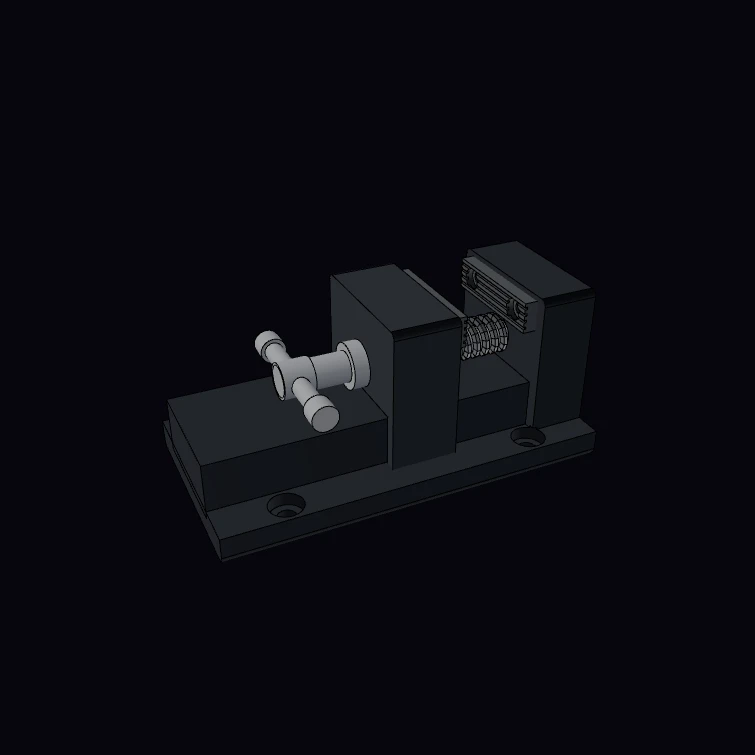
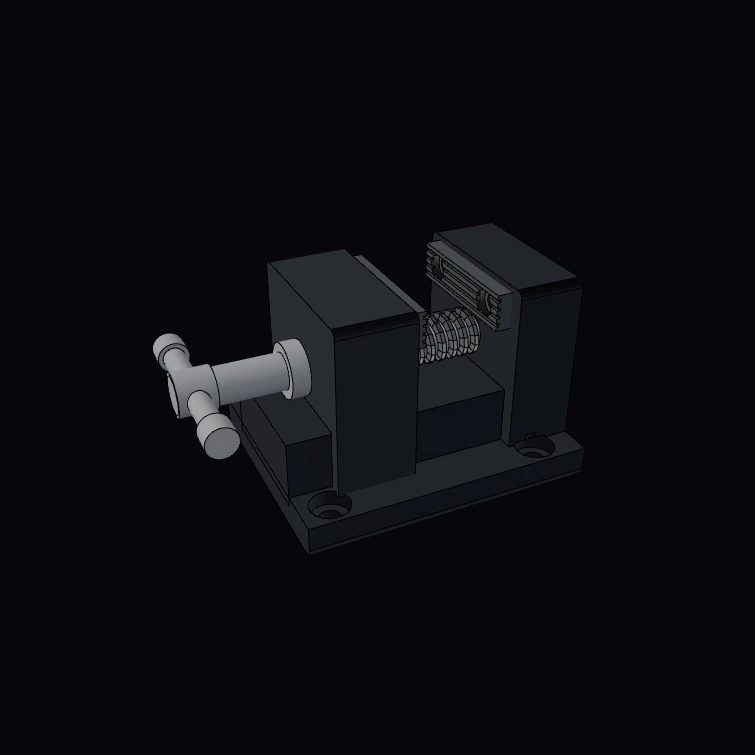
fix(playground): cantilever the vise crank off the bed front edge
The redesign ran the bed the full length under the front-mounted crank,
so the handle knobs would collide with the bed when swung — you couldn't
actually turn it. Shorten the bed to end just past the movable jaw and
push the crank out on a longer journal so the screw nose + T-handle
cantilever past the front edge, swinging in free space like a real
machine vise. Moved the front mounting holes onto the shorter flange.

Changed region(s): [[0.1828, 0.2742, 0.7921, 0.7311], [0.7311, 0.5483, 0.7921, 0.5788], [0.6702, 0.5788, 0.7007, 0.6093]]

diff --git a/apps/playground/src/lib/examples/mechanical.ts b/apps/playground/src/lib/examples/mechanical.ts
@@ -3816,7 +3816,7 @@ import { color } from 'brepjs/playground';
 // travel reserve, so the jaw genuinely opens and closes. Datums: bed bottom at
 // Z=0, screw axis along X.
 const P = {
-  bedLen: 150,
+  bedLen: 96, // ends just past the movable jaw so the crank cantilevers off the front
   flangeW: 78, // wide mounting foot
   flangeH: 11,
   barW: 46, // central slide bar the movable jaw saddles
@@ -3845,11 +3845,11 @@ const P = {
   handleLen: 46,
   handleHubR: 7,
   handleHubLen: 12,
-  handleStandoff: 26, // crank stands clear in front of the movable jaw
+  handleStandoff: 34, // crank stands clear off the front edge so the knobs swing freely
   knobR: 5,
   knobLen: 8,
-  mountX0: 26, // mounting holes in the flange ears (clear of the bar + jaws)
-  mountX1: 124,
+  mountX0: 14, // mounting holes in the flange ears (clear of the bar + jaws)
+  mountX1: 86,
   mountY: 31,
   mountHoleR: 3.5,
   mountCboreR: 6.5,
